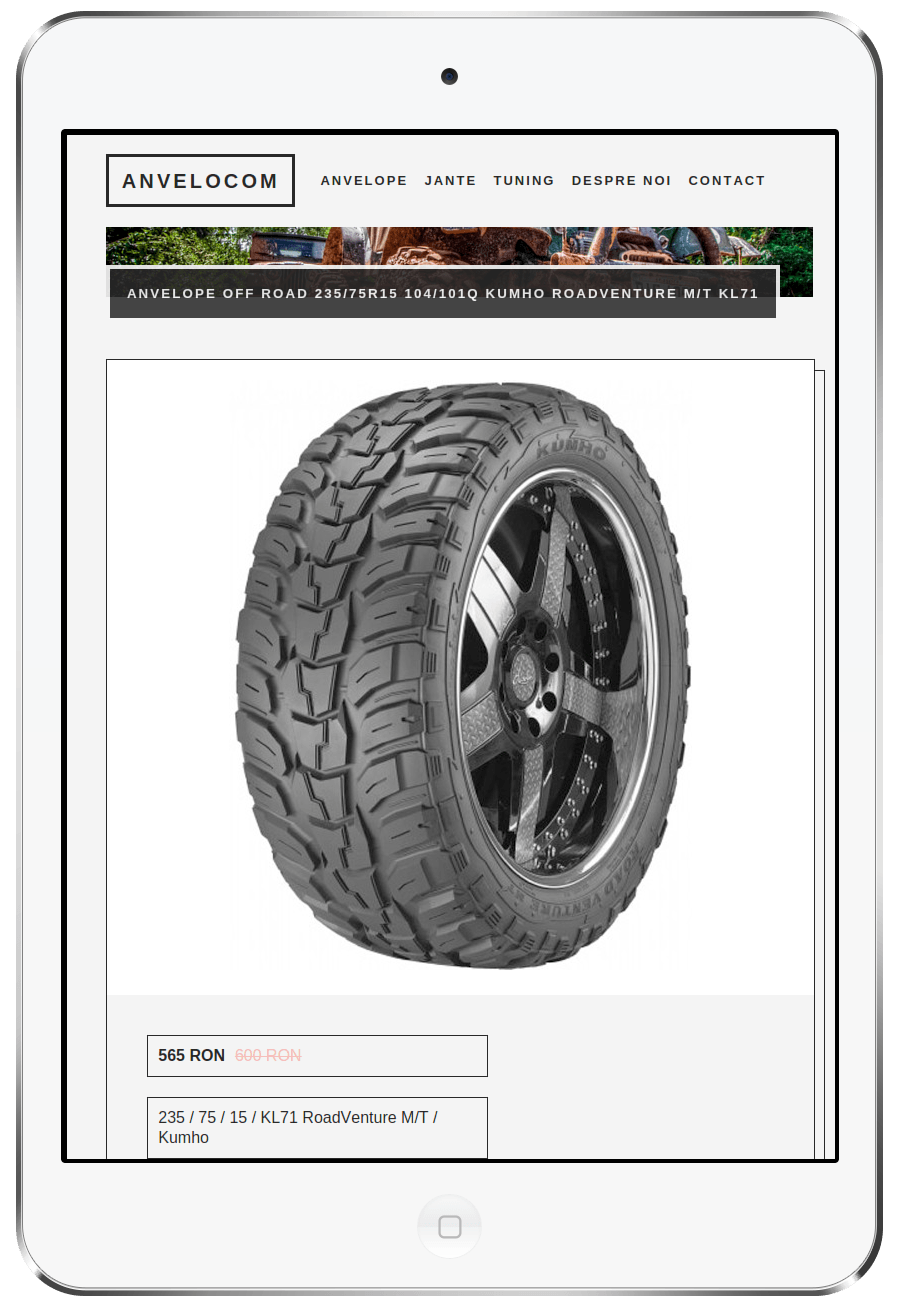
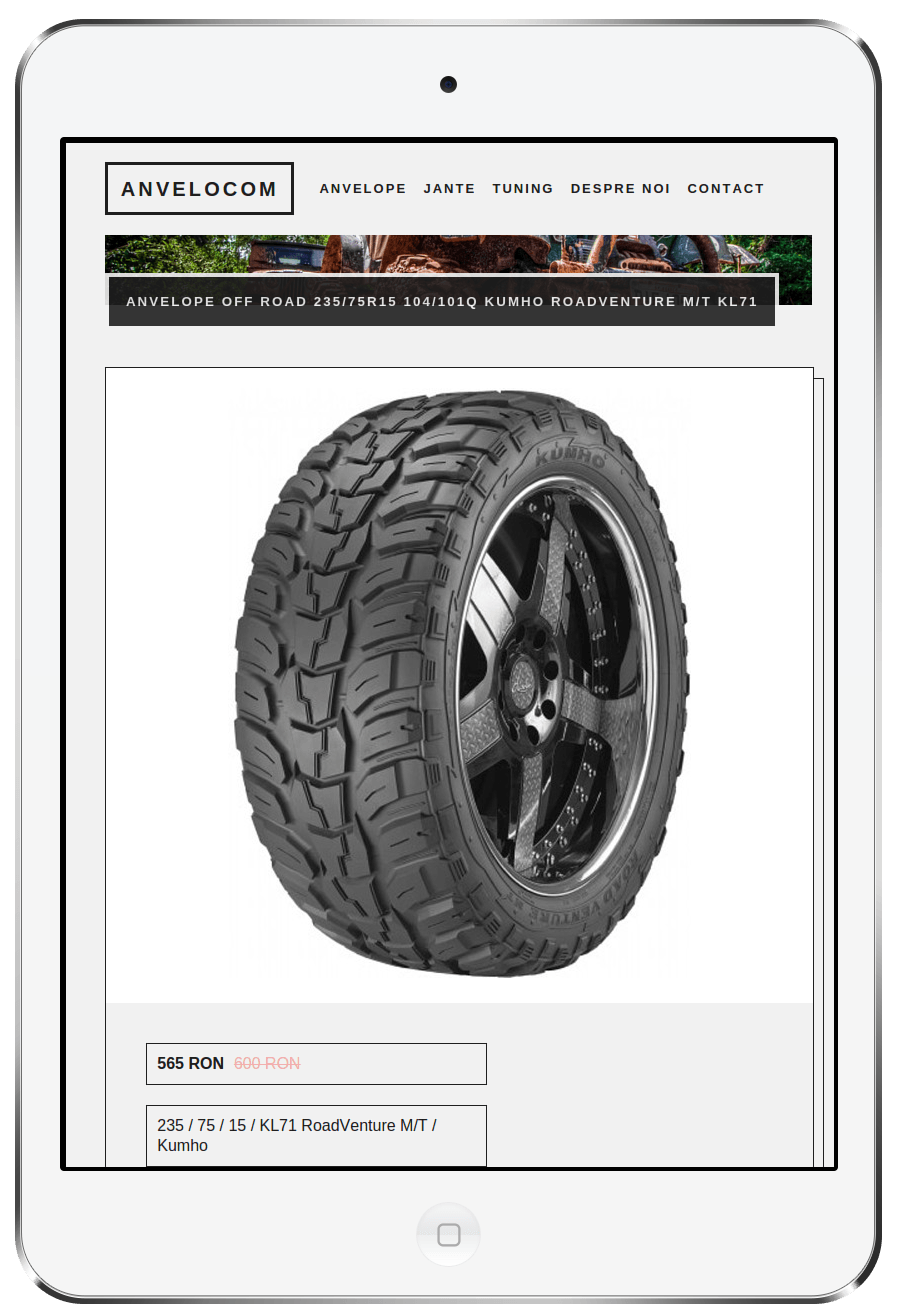
Anvelocom done

diff --git a/_site/anvelocom/index.html b/_site/anvelocom/index.html
@@ -381,71 +381,6 @@
 
 
 <article class="mockup">
-  <h3>The Anvelocom Archive Page on Tablet</h3>
-  
-  <!-- http://picture.responsiveimages.org/ -->
-
-<!-- From post, or from direct input -->
-
-  
-  
-
-
-
-<!-- Setting up the images -->
-<!-- mobile should be always present -->
-
-<!-- if a size is missing the previous size is used. if all sizes missing the mobile is the default -->
-
-
-
-
-
-
-<!-- Setting up the other variables -->
-
-
-
-
-<!-- if no title, class from post then add via an include -->
-
-  
-
-
-
-  
-
-
-<!-- if no figcaption then title is a figcaption -->
-
-  
-
-
-
-<figure id="the-anvelocom-archive-page-on-tablet" class="screenshots-2">
-  <picture>
-    <!--[if IE 9]><video style="display: none;"><![endif]-->
-    
-    <!-- The first criteria met is applied -->
-    <source media="(min-width: 90em)" srcset="/assets/images/anvelocom-archive-tablet-angle.png 1x">
-    <source media="(min-width: 64em)" srcset="/assets/images/anvelocom-archive-tablet-angle.png 1x">
-    <source media="(min-width: 48em)" srcset="/assets/images/anvelocom-archive-tablet-angle.png 1x">
-    <source media="(min-width: 37.5em)" srcset="/assets/images/anvelocom-archive-tablet-angle.png 1x">
-    <source srcset="/assets/images/anvelocom-archive-tablet-angle.png 1x">
-    <!--[if IE 9]></video><![endif]-->
-    
-    <img src="/assets/images/anvelocom-archive-tablet-angle.png" alt="The Anvelocom Archive Page on Tablet">
-  </picture>
-  
-  <figcaption>The Anvelocom Archive Page on Tablet</figcaption>
-</figure>
-</article>
-  
-    
-
-
-
-<article class="mockup">
   <h3>The Anvelocom Frontpage Page on Desktop</h3>
   
   <!-- http://picture.responsiveimages.org/ -->
@@ -518,9 +453,74 @@
 
 
 
-<section class="services">
-  <h3>Services</h3>
+<section class="screenshots-2">
+  <h3>Screenshots 2</h3>
   
+  
+    
+
+
+
+<article class="mockup">
+  <h3>The Anvelocom Archive Page on Tablet</h3>
+  
+  <!-- http://picture.responsiveimages.org/ -->
+
+<!-- From post, or from direct input -->
+
+  
+  
+
+
+
+<!-- Setting up the images -->
+<!-- mobile should be always present -->
+
+<!-- if a size is missing the previous size is used. if all sizes missing the mobile is the default -->
+
+
+
+
+
+
+<!-- Setting up the other variables -->
+
+
+
+
+<!-- if no title, class from post then add via an include -->
+
+  
+
+
+
+  
+
+
+<!-- if no figcaption then title is a figcaption -->
+
+  
+
+
+
+<figure id="the-anvelocom-archive-page-on-tablet" class="screenshots-2">
+  <picture>
+    <!--[if IE 9]><video style="display: none;"><![endif]-->
+    
+    <!-- The first criteria met is applied -->
+    <source media="(min-width: 90em)" srcset="/assets/images/anvelocom-archive-tablet-portrait.png 1x">
+    <source media="(min-width: 64em)" srcset="/assets/images/anvelocom-archive-tablet-portrait.png 1x">
+    <source media="(min-width: 48em)" srcset="/assets/images/anvelocom-archive-tablet-portrait.png 1x">
+    <source media="(min-width: 37.5em)" srcset="/assets/images/anvelocom-archive-tablet-portrait.png 1x">
+    <source srcset="/assets/images/anvelocom-archive-tablet-portrait.png 1x">
+    <!--[if IE 9]></video><![endif]-->
+    
+    <img src="/assets/images/anvelocom-archive-tablet-portrait.png" alt="The Anvelocom Archive Page on Tablet">
+  </picture>
+  
+  <figcaption>The Anvelocom Archive Page on Tablet</figcaption>
+</figure>
+</article>
   
     
 
@@ -568,7 +568,7 @@
 
 
 
-<figure id="the-anvelocom-product-page-on-tablet" class="services">
+<figure id="the-anvelocom-product-page-on-tablet" class="screenshots-2">
   <picture>
     <!--[if IE 9]><video style="display: none;"><![endif]-->
     
@@ -586,6 +586,22 @@
   <figcaption>The Anvelocom Product Page on Tablet</figcaption>
 </figure>
 </article>
+  
+  
+  
+  
+  
+  
+  
+  
+  
+</section>
+
+
+
+<section class="services">
+  <h3>Services</h3>
+  
   
   
   

diff --git a/_site/assets/styles/screen.css b/_site/assets/styles/screen.css
@@ -47,10 +47,8 @@ html.portfolio body section article.mockup figure#the-anvelocom-archive-page-on-
 @media only screen and (min-width: 90em) { html.portfolio body section article.mockup figure#the-anvelocom-archive-page-on-laptop img { max-width: 800px; } }
 html.portfolio body section article.mockup figure#the-anvelocom-frontpage-page-on-mobile img, html.portfolio body section article.mockup figure#the-anvelocom-menu-page-on-mobile img, html.portfolio body section article.mockup figure#the-anvelocom-archive-page-on-mobile img { max-width: 260px; }
 @media only screen and (max-width: 63.999em) { html.portfolio body section article.mockup figure#the-anvelocom-frontpage-page-on-mobile img, html.portfolio body section article.mockup figure#the-anvelocom-menu-page-on-mobile img, html.portfolio body section article.mockup figure#the-anvelocom-archive-page-on-mobile img { max-width: 300px; } }
-html.portfolio body section article.mockup figure#the-anvelocom-archive-page-on-tablet img { max-width: 800px; }
-@media only screen and (max-width: 37.499em) { html.portfolio body section article.mockup figure#the-anvelocom-archive-page-on-tablet img { margin-left: -50%; } }
 html.portfolio body section article.mockup figure#the-anvelocom-frontpage-page-on-desktop img { max-width: 600px; }
 @media only screen and (min-width: 90em) { html.portfolio body section article.mockup figure#the-anvelocom-frontpage-page-on-desktop img { max-width: 800px; } }
-html.portfolio body section article.mockup figure#the-anvelocom-product-page-on-tablet img { max-width: 320px; }
-@media only screen and (min-width: 90em) { html.portfolio body section article.mockup figure#the-anvelocom-product-page-on-tablet img { max-width: 400px; } }
+html.portfolio body section article.mockup figure#the-anvelocom-product-page-on-tablet img, html.portfolio body section article.mockup figure#the-anvelocom-archive-page-on-tablet img { max-width: 320px; }
+@media only screen and (min-width: 90em) { html.portfolio body section article.mockup figure#the-anvelocom-product-page-on-tablet img, html.portfolio body section article.mockup figure#the-anvelocom-archive-page-on-tablet img { max-width: 400px; } }
 html.portfolio body section article.services, html.portfolio body section article.title, html.portfolio body section article.description { max-width: 30em; text-align: center; }

diff --git a/assets/styles/screen.css b/assets/styles/screen.css
@@ -47,10 +47,8 @@ html.portfolio body section article.mockup figure#the-anvelocom-archive-page-on-
 @media only screen and (min-width: 90em) { html.portfolio body section article.mockup figure#the-anvelocom-archive-page-on-laptop img { max-width: 800px; } }
 html.portfolio body section article.mockup figure#the-anvelocom-frontpage-page-on-mobile img, html.portfolio body section article.mockup figure#the-anvelocom-menu-page-on-mobile img, html.portfolio body section article.mockup figure#the-anvelocom-archive-page-on-mobile img { max-width: 260px; }
 @media only screen and (max-width: 63.999em) { html.portfolio body section article.mockup figure#the-anvelocom-frontpage-page-on-mobile img, html.portfolio body section article.mockup figure#the-anvelocom-menu-page-on-mobile img, html.portfolio body section article.mockup figure#the-anvelocom-archive-page-on-mobile img { max-width: 300px; } }
-html.portfolio body section article.mockup figure#the-anvelocom-archive-page-on-tablet img { max-width: 800px; }
-@media only screen and (max-width: 37.499em) { html.portfolio body section article.mockup figure#the-anvelocom-archive-page-on-tablet img { margin-left: -50%; } }
 html.portfolio body section article.mockup figure#the-anvelocom-frontpage-page-on-desktop img { max-width: 600px; }
 @media only screen and (min-width: 90em) { html.portfolio body section article.mockup figure#the-anvelocom-frontpage-page-on-desktop img { max-width: 800px; } }
-html.portfolio body section article.mockup figure#the-anvelocom-product-page-on-tablet img { max-width: 320px; }
-@media only screen and (min-width: 90em) { html.portfolio body section article.mockup figure#the-anvelocom-product-page-on-tablet img { max-width: 400px; } }
+html.portfolio body section article.mockup figure#the-anvelocom-product-page-on-tablet img, html.portfolio body section article.mockup figure#the-anvelocom-archive-page-on-tablet img { max-width: 320px; }
+@media only screen and (min-width: 90em) { html.portfolio body section article.mockup figure#the-anvelocom-product-page-on-tablet img, html.portfolio body section article.mockup figure#the-anvelocom-archive-page-on-tablet img { max-width: 400px; } }
 html.portfolio body section article.services, html.portfolio body section article.title, html.portfolio body section article.description { max-width: 30em; text-align: center; }

diff --git a/_posts/2013-11-11-anvelocom.html b/_posts/2013-11-11-anvelocom.html
@@ -19,9 +19,9 @@ images:
   - mobile: anvelocom-menu-mobile-portrait.png
   - mobile: anvelocom-archive-mobile-portrait.png
 
-  - mobile: anvelocom-archive-tablet-angle.png
   - mobile: anvelocom-frontpage-desktop-front.png
 
+  - mobile: anvelocom-archive-tablet-portrait.png
   - mobile: anvelocom-product-tablet-portrait.png
 ---
 
@@ -43,5 +43,6 @@ images:
 {% endcapture %}
 {% include organisms/portfolio-section.html title="Description" images="" description=description %}
 
-{% include organisms/portfolio-section.html title="Screenshots 2" images="4,5" %}
-{% include organisms/portfolio-section.html title="Services" images="6" %}
+{% include organisms/portfolio-section.html title="Screenshots 2" images="4" %}
+{% include organisms/portfolio-section.html title="Screenshots 2" images="5,6" %}
+{% include organisms/portfolio-section.html title="Services" images="" %}

diff --git a/_site/styleguide/molecules/mockup.html b/_site/styleguide/molecules/mockup.html
@@ -38,16 +38,6 @@
     }
   }
   
-  @if ($type == "tablet angle") {
-    img {
-      max-width: 800px;
-      
-      @include mobile {
-        margin-left: -50%;
-      }
-    }
-  }
-  
   @if ($type == "tablet portrait single") {
     img {
       // tablet

diff --git a/_site/assets/styles/molecules/mockup.scss b/_site/assets/styles/molecules/mockup.scss
@@ -5,16 +5,6 @@
     }
   }
   
-  @if ($type == "tablet angle") {
-    img {
-      max-width: 800px;
-      
-      @include mobile {
-        margin-left: -50%;
-      }
-    }
-  }
-  
   @if ($type == "tablet portrait single") {
     img {
       // tablet

diff --git a/assets/styles/molecules/mockup.scss b/assets/styles/molecules/mockup.scss
@@ -5,16 +5,6 @@
     }
   }
   
-  @if ($type == "tablet angle") {
-    img {
-      max-width: 800px;
-      
-      @include mobile {
-        margin-left: -50%;
-      }
-    }
-  }
-  
   @if ($type == "tablet portrait single") {
     img {
       // tablet

diff --git a/_site/assets/styles/organisms/anvelocom-mockups.scss b/_site/assets/styles/organisms/anvelocom-mockups.scss
@@ -15,7 +15,7 @@
     @include mockup("desktop front");
   }
   
-  &#the-anvelocom-product-page-on-tablet {
+  &#the-anvelocom-product-page-on-tablet, &#the-anvelocom-archive-page-on-tablet  {
     @include mockup("tablet portrait double");
   }
 }

diff --git a/assets/styles/organisms/anvelocom-mockups.scss b/assets/styles/organisms/anvelocom-mockups.scss
@@ -15,7 +15,7 @@
     @include mockup("desktop front");
   }
   
-  &#the-anvelocom-product-page-on-tablet {
+  &#the-anvelocom-product-page-on-tablet, &#the-anvelocom-archive-page-on-tablet  {
     @include mockup("tablet portrait double");
   }
 }
